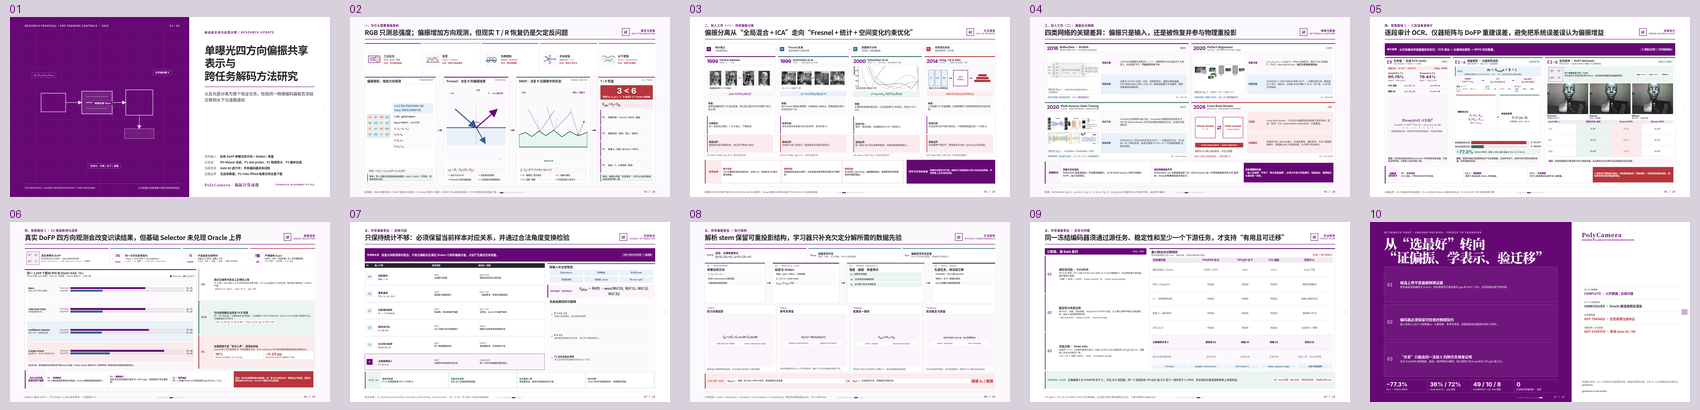
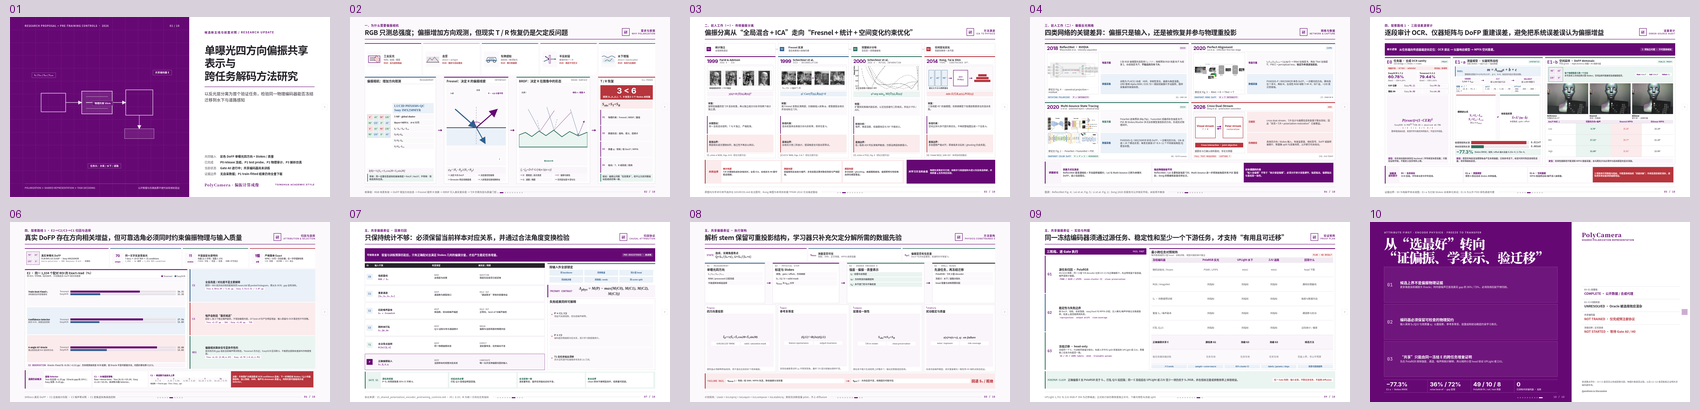
docs: connect angle attribution to physics priors

Changed region(s): [[0.0, 0.6439, 0.1871, 0.878], [0.0, 0.9073, 0.1871, 0.9366], [0.0312, 0.5561, 0.1871, 0.5854]]

diff --git a/demo/tsinghua-ppt/index.html b/demo/tsinghua-ppt/index.html
@@ -614,28 +614,29 @@
   .e2-protocol-stat{display:grid;place-items:center;width:3.35em;aspect-ratio:1;background:var(--paper-soft);color:var(--accent);font:800 clamp(16px,1.08vw,21px)/.95 var(--sans-latin);text-align:center}
   .e2-protocol-stat small{display:block;font-size:.45em;font-family:var(--sans)}
 
-  .e2-main{min-height:0;display:grid;grid-template-columns:59% 1fr;gap:.7vw}
+  .e2-main{min-height:0;display:grid;grid-template-columns:56% 1fr;gap:.7vw}
   .selection-chart{min-height:0;display:grid;grid-template-rows:auto auto minmax(0,1fr) auto;gap:.5vh;padding:.66vh .62vw;border:1px solid var(--line);border-top:4px solid var(--accent);background:#fff}
   .selection-chart-head{display:flex;justify-content:space-between;gap:.7vw;align-items:end}.selection-chart-head h2{font:750 clamp(14px,.92vw,18px)/1.16 var(--sans)}.selection-chart-head p{margin-top:.18vh;color:var(--muted);font:600 clamp(10px,.65vw,12px)/1.18 var(--sans)}
   .selection-legend{display:flex;gap:.7vw;font:700 clamp(9px,.61vw,11px)/1 var(--sans);color:var(--muted)}.selection-legend span::before{content:"";display:inline-block;width:.75em;height:.75em;margin-right:.3em;background:var(--accent)}.selection-legend span.easy::before{background:var(--info)}
-  .selection-rows{display:grid;grid-template-rows:repeat(4,1fr);gap:.38vh;min-height:0}.selection-row{display:grid;grid-template-columns:9.3em 1fr;gap:.55vw;align-items:center;padding:.42vh .44vw;background:var(--paper-soft)}.selection-row.selector{background:var(--info-soft)}.selection-row.oracle{background:var(--danger-soft)}
+  .selection-rows{display:grid;grid-template-rows:repeat(3,1fr);gap:.38vh;min-height:0}.selection-row{display:grid;grid-template-columns:9.3em 1fr;gap:.55vw;align-items:center;padding:.42vh .44vw;background:var(--paper-soft)}.selection-row.selector{background:var(--info-soft)}.selection-row.oracle{background:var(--danger-soft)}
   .selection-name strong{display:block;font:800 clamp(10px,.67vw,13px)/1.1 var(--sans)}.selection-name span{display:block;margin-top:.16vh;color:var(--muted);font:650 clamp(9px,.59vw,11px)/1.12 var(--sans)}
   .selection-pair{display:grid;gap:.3vh}.selection-line{display:grid;grid-template-columns:4.9em 1fr 3.6em;gap:.35vw;align-items:center;font:650 clamp(9px,.6vw,11px)/1 var(--sans);color:var(--muted)}.selection-track{height:1.08vh;min-height:8px;background:#e8e2e9}.selection-fill{display:block;height:100%;background:var(--accent)}.selection-fill.easy{background:var(--info)}.selection-value{text-align:right;color:var(--ink);font:800 clamp(10px,.65vw,12px)/1 var(--mono)}
   .selection-note{display:grid;grid-template-columns:auto 1fr;gap:.5vw;align-items:center;padding:.46vh .45vw;background:var(--accent-pale);font:650 clamp(10px,.65vw,12px)/1.22 var(--sans);color:var(--ink-soft)}.selection-note strong{color:var(--accent);font-family:var(--mono)}
 
-  .e2-reading-stack{min-height:0;display:grid;grid-template-rows:.9fr 1fr 1fr;gap:.46vh}
+  .e2-reading-stack{min-height:0;display:grid;grid-template-rows:1fr 1fr 1fr;gap:.46vh}
   .e2-read-card{display:grid;grid-template-columns:3.5em 1fr;gap:.55vw;align-items:center;padding:.58vh .58vw;border-left:4px solid var(--line-strong);background:#fff}
-  .e2-read-card.paired{border-left-color:var(--success);background:var(--success-soft)}.e2-read-card.selector{border-left-color:var(--danger);background:var(--danger-soft)}
+  .e2-read-card.photometric{border-left-color:var(--info);background:var(--info-soft)}.e2-read-card.noise{border-left-color:var(--danger);background:var(--danger-soft)}.e2-read-card.residual{border-left-color:var(--success);background:var(--success-soft)}
   .e2-read-card .rid{color:var(--accent);font:800 clamp(11px,.72vw,14px)/1 var(--mono)}
   .e2-read-card h3{font:750 clamp(12px,.79vw,15px)/1.14 var(--sans)}
   .e2-read-card p{margin-top:.25vh;color:var(--ink-soft);font:550 clamp(10px,.66vw,12px)/1.26 var(--sans)}
   .e2-read-card .read-metrics{display:flex;flex-wrap:wrap;gap:.28vw;margin-top:.38vh}.e2-read-card .read-metrics span{padding:.28vh .32vw;background:#fff;color:var(--accent);font:800 clamp(9px,.59vw,11px)/1 var(--mono)}
   .selector-realization{display:grid;grid-template-columns:1fr 1fr;gap:.32vw;margin-top:.42vh}.selector-realization div{padding:.4vh .38vw;background:#fff}.selector-realization strong{display:block;color:var(--danger);font:800 clamp(17px,1.15vw,22px)/1 var(--sans-latin)}.selector-realization span{display:block;margin-top:.18vh;color:var(--muted);font:650 clamp(9px,.58vw,11px)/1.12 var(--sans)}
 
-  .e2-control-strip{display:grid;grid-template-columns:auto repeat(3,1fr) 1.3fr;gap:.42vw;align-items:stretch;padding:.58vh .6vw;background:var(--accent-pale);border-left:4px solid var(--accent)}
+  .e2-control-strip{display:grid;grid-template-columns:auto .78fr .9fr 1.32fr 1.35fr;gap:.42vw;align-items:stretch;padding:.58vh .6vw;background:var(--accent-pale);border-left:4px solid var(--accent)}
   .e2-control-strip>strong{display:grid;place-items:center;padding:0 .3vw;color:var(--accent);font:800 clamp(10px,.68vw,13px)/1.15 var(--mono);text-align:center}
   .e2-control{display:grid;align-content:center;padding:.42vh .44vw;background:#fff;color:var(--ink-soft);font:650 clamp(10px,.64vw,12px)/1.22 var(--sans)}.e2-control b{display:block;margin-bottom:.15vh;color:var(--accent)}
   .e2-control-verdict{display:grid;align-content:center;padding:.46vh .5vw;background:var(--danger);color:#fff;font:750 clamp(10px,.65vw,12px)/1.24 var(--sans)}
+  .candidate-ladder{display:grid;grid-template-columns:repeat(5,1fr);gap:.18vw;margin-top:.3vh}.candidate-ladder span{padding:.25vh .18vw;background:var(--paper-soft);text-align:center;color:var(--muted);font:750 clamp(8px,.55vw,10px)/1.08 var(--mono)}.candidate-ladder b{display:block;margin:0;color:var(--accent);font-size:1.05em}
 
   /* 03 · 系统、协议与 Gate */
   .protocol-layout{height:100%;display:grid;grid-template-rows:auto 1fr;gap:1.15vh}
@@ -1159,20 +1160,19 @@
 </section>
 
 <section class="slide soft" data-layout="THU14" data-animate="academic" data-slide-id="route1-hypothesis-chain">
-  <div class="thu-page"><header class="thu-header"><div><div class="thu-section">四、探索路线 1 · E2 角度影响与选择</div><h1 class="thu-title">真实 DoFP 四方向观测会改变识读结果，但基础 Selector 未兑现 Oracle 上界</h1></div><div class="thu-brand"><div class="thu-brand-mark">研</div><div class="thu-brand-copy"><strong>角度选择</strong><span>ANGLE SELECTION</span></div></div></header>
+  <div class="thu-page"><header class="thu-header"><div><div class="thu-section">四、探索路线 1 · E2→C2/C3→C1 归因与选择</div><h1 class="thu-title">真实 DoFP 存在方向相关增益，但可靠选角必须同时约束偏振物理与输入质量</h1></div><div class="thu-brand"><div class="thu-brand-mark">研</div><div class="thu-brand-copy"><strong>归因与选择</strong><span>ATTRIBUTION & SELECTION</span></div></div></header>
   <main class="thu-content tight"><div class="e2-selection-layout quant-layout">
     <div class="e2-protocol-grid" data-anim><article class="e2-protocol-card"><div class="e2-sensor" aria-label="DoFP四方向微偏振单元示意，绝对排列以相机SDK为准"><span>90°</span><span>45°</span><span>135°</span><span>0°</span></div><div><h2>真实单曝光 DoFP</h2><p>FLIR BFS-U3-51S5P · Sony IMX250MZR</p><em>micro-polarizer → SDK demosaic 8-bit · 非模拟</em></div></article><article class="e2-protocol-card"><div class="e2-protocol-stat">70<small>unique</small></div><div><h2>同一文字反复受高光</h2><p>7 docs × 10 GT ROI × 15 conditions</p><em>1,050 − 16 越界 = 1,034 ROI-condition</em></div></article><article class="e2-protocol-card"><div class="e2-protocol-stat">11<small>median</small></div><div><h2>不是固定长度喷码</h2><p>均值 22.3 字符；范围 1–376</p><em>FUNSD 字段 / 短语 / 段落 · 印刷+手写混合</em></div></article><article class="e2-protocol-card"><div class="e2-protocol-stat">1错<small>全错</small></div><div><h2>严格整串 Exact</h2><p>NFKC + 大写 + 空白折叠；任一字符错即失败</p><em>CER 同报 · 无字典 / OCV 修正</em></div></article></div>
     <div class="e2-main" data-anim>
-      <article class="selection-chart"><div class="selection-chart-head"><div><h2>同一 1,034 个配对 ROI 的 Exact-read（%）</h2><p>Fixed 仅由 train 选择；Selector 可部署；Oracle 使用 GT，只是上界</p></div><div class="selection-legend"><span>Tesseract</span><span class="easy">EasyOCR</span></div></div><div class="rule"></div><div class="selection-rows">
-        <div class="selection-row"><div class="selection-name"><strong>Raw I₀</strong><span>真实 DoFP 单方向基线</span></div><div class="selection-pair"><div class="selection-line"><span>Tesseract</span><span class="selection-track"><i class="selection-fill" style="width:65.78%"></i></span><span class="selection-value">26.31</span></div><div class="selection-line"><span>EasyOCR</span><span class="selection-track"><i class="selection-fill easy" style="width:28.30%"></i></span><span class="selection-value">11.32</span></div></div></div>
-        <div class="selection-row"><div class="selection-name"><strong>Train-best Fixed</strong><span>训练集最终仍选 I₀</span></div><div class="selection-pair"><div class="selection-line"><span>Tesseract</span><span class="selection-track"><i class="selection-fill" style="width:65.78%"></i></span><span class="selection-value">26.31</span></div><div class="selection-line"><span>EasyOCR</span><span class="selection-track"><i class="selection-fill easy" style="width:28.30%"></i></span><span class="selection-value">11.32</span></div></div></div>
-        <div class="selection-row selector"><div class="selection-name"><strong>Confidence Selector</strong><span>四次 OCR，按置信度选</span></div><div class="selection-pair"><div class="selection-line"><span>Tesseract</span><span class="selection-track"><i class="selection-fill" style="width:68.90%"></i></span><span class="selection-value">27.56</span></div><div class="selection-line"><span>EasyOCR</span><span class="selection-track"><i class="selection-fill easy" style="width:27.58%"></i></span><span class="selection-value">11.03</span></div></div></div>
-        <div class="selection-row oracle"><div class="selection-name"><strong>4-angle Oracle</strong><span>事后看 GT，逐 ROI 选对的方向</span></div><div class="selection-pair"><div class="selection-line"><span>Tesseract</span><span class="selection-track"><i class="selection-fill" style="width:82.20%"></i></span><span class="selection-value">32.88</span></div><div class="selection-line"><span>EasyOCR</span><span class="selection-track"><i class="selection-fill easy" style="width:34.58%"></i></span><span class="selection-value">13.83</span></div></div></div>
-      </div><div class="selection-note"><strong>READING</strong><span>绝对值受长字符串与严格 Exact 压低；Fixed–Oracle 是同 ROI / 同字符串 / 同高光条件的配对相对变化。</span></div></article>
-      <aside class="e2-reading-stack"><article class="e2-read-card"><span class="rid">ABS</span><div><h3>绝对正确率不能当工业喷码上限</h3><p>70 个唯一 ROI 包含 1–376 字符的混合表单字段；GT crop 还绕过了文字检测。绝对值只描述这一 SHDocs 代理。</p><div class="read-metrics"><span>median 11 chars</span><span>mean 22.3</span><span>max 376</span></div></div></article><article class="e2-read-card paired"><span class="rid">PAIR</span><div><h3>方向观测确实会改变 OCR 结果</h3><p>同一 ROI 的内容、长度和高光条件固定，只切换四个 DoFP 方向分支；Oracle–Fixed 在两个后端均为正，文档聚类区间不跨 0。</p><div class="read-metrics"><span>Tess +6.58 pp [4.13,8.86]</span><span>Easy +2.51 pp [1.50,3.52]</span></div></div></article><article class="e2-read-card selector"><span class="rid">SEL</span><div><h3>关键困难不是“有无上界”，而是如何选</h3><p>Oracle 每个 ROI 都使用 GT 才知道最优方向；OCR confidence 并不是可靠的图像质量或正确性估计。</p><div class="selector-realization"><div><strong>19%</strong><span>Tesseract 仅兑现 1.25 / 6.58 pp</span></div><div><strong>−0.29 pp</strong><span>EasyOCR Selector 反而低于 Fixed</span></div></div></div></article></aside>
+      <article class="selection-chart"><div class="selection-chart-head"><div><h2>E2 · 同一 1,034 个配对 ROI 的 Exact-read（%）</h2><p>同 ROI / 字符串 / 高光条件，只切换真实 DoFP 四方向观测</p></div><div class="selection-legend"><span>Tesseract</span><span class="easy">EasyOCR</span></div></div><div class="rule"></div><div class="selection-rows">
+        <div class="selection-row"><div class="selection-name"><strong>Train-best Fixed I₀</strong><span>训练集选定的部署基线</span></div><div class="selection-pair"><div class="selection-line"><span>Tesseract</span><span class="selection-track"><i class="selection-fill" style="width:65.78%"></i></span><span class="selection-value">26.31</span></div><div class="selection-line"><span>EasyOCR</span><span class="selection-track"><i class="selection-fill easy" style="width:28.30%"></i></span><span class="selection-value">11.32</span></div></div></div>
+        <div class="selection-row selector"><div class="selection-name"><strong>Confidence Selector</strong><span>四次 OCR，按置信度选择</span></div><div class="selection-pair"><div class="selection-line"><span>Tesseract</span><span class="selection-track"><i class="selection-fill" style="width:68.90%"></i></span><span class="selection-value">27.56</span></div><div class="selection-line"><span>EasyOCR</span><span class="selection-track"><i class="selection-fill easy" style="width:27.58%"></i></span><span class="selection-value">11.03</span></div></div></div>
+        <div class="selection-row oracle"><div class="selection-name"><strong>4-angle GT Oracle</strong><span>看过答案后逐 ROI 选对的方向</span></div><div class="selection-pair"><div class="selection-line"><span>Tesseract</span><span class="selection-track"><i class="selection-fill" style="width:82.20%"></i></span><span class="selection-value">32.88</span></div><div class="selection-line"><span>EasyOCR</span><span class="selection-track"><i class="selection-fill easy" style="width:34.58%"></i></span><span class="selection-value">13.83</span></div></div></div>
+      </div><div class="selection-note"><strong>E2 OBSERVATION</strong><span>Oracle–Fixed 为 +6.58 / +2.51 pp：方向观测会改变 OCR 结果；但 Oracle 不是可部署方法，归因仍需右侧 C2/C3。</span></div></article>
+      <aside class="e2-reading-stack"><article class="e2-read-card photometric"><span class="rid">C2</span><div><h3>全局亮度 / 对比度不是主要解释</h3><p>把同一 ROI 四方向分别匹配到共同 mean/std 或 pooled histogram，再从头 OCR；gap 没有消失。</p><div class="read-metrics"><span>Tess 6.58→6.09 / 5.61 pp</span><span>Easy 2.51→2.51 / 3.87 pp</span></div></div></article><article class="e2-read-card noise"><span class="rid">C3</span><div><h3>噪声会制造“最优候选”</h3><p>固定 I₀ 加 3 个独立噪声副本，不增加偏振内容，GT best-of 仍产生明显增益：输入质量与 OCR 稳定性不可忽略。</p><div class="read-metrics"><span>Tess +2.37 pp · 36%</span><span>Easy +1.81 pp · 72%</span></div></div></article><article class="e2-read-card residual"><span class="rid">RES</span><div><h3>偏振相关剩余信号是条件性的</h3><p>真实四方向 gap 减去当前噪声零对照后，Tesseract 仍为正；EasyOCR 区间跨 0。不能把全部剩余直接叫作物理增益。</p><div class="read-metrics"><span>Tess +4.21 [2.05,6.19]</span><span>Easy +0.70 [−0.41,1.95]</span></div></div></article></aside>
     </div>
-    <div class="e2-control-strip" data-anim><strong>为什么仍不能<br>直接归因于偏振</strong><div class="e2-control"><b>C1 · 候选数量</b>36 个虚拟角固定策略仍无增益，Oracle 却随候选数机械增大。</div><div class="e2-control"><b>C2 · 图像统计</b>亮度/对比度匹配后仍保留 85–100% gap，整体强度不是主要解释。</div><div class="e2-control"><b>C3 · 噪声抽签</b>同一 I₀ 的噪声 best-of 已复现真实 gap 的 36% / 72%。</div><div class="e2-control-verdict">结论：四方向观测影响识读结果，但“逐 ROI 最优方向”需要真正可部署、经零对照验证的 Selector；Oracle 不能作为方法结果。</div></div>
-  </div></main><footer class="thu-footer"><span>SHDocs 真实 DoFP · 70 strings / 1,034 条件样本 · 长度审计 v1</span><span class="thu-footer-line"></span><span class="thu-page-no">06 / 10</span></footer></div>
+    <div class="e2-control-strip" data-anim><strong>选择仍未解决</strong><div class="e2-control"><b>基础 Selector</b>Tess 仅兑现 +1.25 pp（Oracle gap 的 19%）；Easy 反而 −0.29 pp。</div><div class="e2-control"><b>C1 · 36角固定策略</b>Raw→dense best：Tess 26.31→25.34；Easy 11.32→10.93。未训练36路 Selector。</div><div class="e2-control"><b>C1 · 候选数只会放大上界</b><div class="candidate-ladder"><span><b>1</b>0 / 0</span><span><b>2</b>2.22 / 1.06</span><span><b>4</b>6.58 / 2.42</span><span><b>9</b>11.12 / 4.74</span><span><b>36</b>14.41 / 5.71</span></div><small>候选数 → Oracle gap（Tess / Easy，pp）</small></div><div class="e2-control-verdict">决策：不再靠扩大候选集或 OCR confidence 选角；下一步用校准 Stokes / Q,U 的偏振结构，加上饱和、SNR、噪声与 demosaic 质量 q，共同约束可部署表示或 Selector。</div></div>
+  </div></main><footer class="thu-footer"><span>SHDocs 真实 DoFP · C2 全局统计匹配 · C3 噪声零对照 · C1 密集虚拟角候选控制</span><span class="thu-footer-line"></span><span class="thu-page-no">06 / 10</span></footer></div>
 </section>
 
 <section class="slide" data-layout="THU12" data-animate="academic" data-slide-id="polarization-attribution">
@@ -1227,7 +1227,7 @@ const SPEAKER_NOTES = [
   {id:'classical-reflection-separation',title:'传统偏振反光分离演进',section:'问题与文献',minutes:1.7,purpose:'说明传统路线如何从全局 ICA 逐步加入 Fresnel、统计分布和空间变化约束',talk:['Farid 与 Adelson 将正交检偏图写成同一 T/R 的不同线性混合，并以 ICA 假设统计独立源','Schechner 1999 用 Fresnel 把混合权重绑定到玻璃入射角，通过重建层去相关估计角度','JOSA A 2000 以互信息处理双表面内部反射，并分析噪声、角度误差和入射平面歧义','Kong 2014 把入射角和入射平面扩展为空间变化系数场，再做多尺度约束优化','共同边界是先验失配；学习器应补充局部结构和语义先验，而不是丢掉物理重组和质量门控'],transition:'传统方法明确了可辨识条件，下一页比较深度网络恢复到哪一层物理量',cue:'按顶部约束轴从左到右讲四篇工作，最后落到统计、测量和模型失配'},
   {id:'polarized-reflection-networks',title:'偏振反光网络与采集方案',section:'问题与文献',minutes:1.7,purpose:'同口径比较偏振输入、强度/偏振恢复层级与采集方案',talk:['ReflectNet 用旋转偏振片顺序采集三角度，最终恢复 RGB 强度 T/R，不恢复逐角偏振层','Lei 2020 使用单色 DoFP 单曝光四方向，先估计强度 R 再估计强度 T，并以黑布 M−R 方案采集真值','Multi-bounce 使用彩色 DoFP，逐角预测 polarized T/R，再以 Stokes/Mueller 多次反射模型重投影四方向','Deng 2026 只确认 cross dual-stream、T/R 与 polarization restoration 方向；输入、监督、相机和数据仍待全文核查','输入含偏振不等于输出保留物理；后续方法必须报告采集硬件、输出层级和重投影一致性'],transition:'文献说明“偏振网络”不能只看输入标签，下面回顾路线 1 的可测前提'},
   {id:'route1-foundation',title:'探索路线 1 · 三段误差源审计',section:'探索路线 1',minutes:1.3,purpose:'从任务读出、仪器响应和 DoFP 空间重建三段逆向定位偏振系统中的独立误差源',talk:['这不是把三项百分比相加的统一误差预算；E0、E1-a、E1-b 使用不同数据与指标，作用是逐段锁定混杂因素','E0 是电脑字体、GT ROI 与字符白名单下的软件 sanity：EasyOCR 的 CER 只有 4.20%，但字符串长度和易混字符会把整串 Exact 放大到 60.78%，它不是实拍喷码上限','E1-a 把测量写成 m=Areal·s+b+ε；用已知合成 Stokes 的前 2,500 组估计 A,b，再在留出的 2,500 组反演，RMSE 从理想矩阵的 0.01147 降到 0.00260','E1-b 模拟 2×2 MPFA 每像素只测一个方向，再比较完整四方向、最近邻和双线性；伪彩图中色相是 AoLP、饱和度是 DoLP、亮度是 S0','双线性减轻但没有消除空间插值误差，所以 OCR backend、标定矩阵和 demosaic 都必须冻结或进入后续消融，不能被模型增益吸收'],transition:'三段测量链误差被显式化后，下一页继续检验 E2 的 Oracle gap 是否只是候选数量、图像统计和噪声选择效应',cue:'按左到右讲三段误差源；E1-b 先指 2×2 排列，再读伪彩图图例和 40 场景均值表'},
-  {id:'route1-hypothesis-chain',title:'E2 · 真实 DoFP 角度影响与选择',section:'探索路线 1',minutes:1.3,purpose:'先交代 SHDocs 的真实 DoFP 来源、字符串长度与严格 Exact 规则，再区分角度相关的配对变化、Oracle 上界和可部署 Selector',talk:['E2 的 I0/I45/I90/I135 来自 FLIR Blackfly S 的 Sony IMX250MZR DoFP 单曝光；公开文件是作者/SDK 去马赛克后的 8-bit 方向 PNG，不是旋转偏振片顺序拍摄，也不是纯模拟','测试只有 70 个唯一 FUNSD 文字 ROI，在 15 种高光条件下展开并排除 16 个越界样本后得到 1,034 条；字符串中位数 11、均值 22.3、范围 1–376，包含字段、短语和长段落','Exact 在 NFKC、大写和空白折叠后仍要求整串完全正确，任一字符错就整段失败，因此绝对正确率不能解释为工业日期码上限','同一 ROI 的内容、长度和高光条件固定，只切换四方向观测；Oracle–Fixed 在 Tesseract / EasyOCR 上分别为 +6.58 / +2.51 pp 且文档聚类区间不跨 0，说明方向分支会改变 OCR 结果','但 Oracle 使用 GT 才能逐 ROI 选方向；confidence selector 对 Tesseract 只兑现 1.25 pp、约占 gap 的 19%，EasyOCR 还下降 0.29 pp。C1–C3 又说明候选数与噪声抽签会制造上界，所以 Selector 必须可部署并经过零对照验证'],transition:'观察到方向相关变化但现有 Selector 失败后，下一页改用只破坏一个因素的匹配干预，定义什么结果才允许归因于真实偏振信息',cue:'先讲顶部四个协议卡，再读 Fixed–Oracle 配对变化，最后指向右下角 19% 与 −0.29 pp'},
+  {id:'route1-hypothesis-chain',title:'E2–C3–C1 · 方向归因与选择',section:'探索路线 1',minutes:1.3,purpose:'把真实 DoFP 方向差异、亮度统计、噪声选择下限和密集候选控制串成一条归因—选择—决策链',talk:['E2 的真实 DoFP 配对结果先建立观察：同一 ROI、字符串和高光条件下，Oracle–Fixed 在 Tesseract / EasyOCR 上为 +6.58 / +2.51 pp，说明四方向观测会改变 OCR 输出；绝对正确率仍受 1–376 字符和严格 Exact 压低','C2 把每个 ROI 的四方向匹配到共同 mean/std 或 pooled histogram 后重新 OCR；Tesseract gap 仍为 6.09 / 5.61 pp，Easy 为 2.51 / 3.87 pp，因此全局亮度和对比度不是主要解释，但局部高光结构仍被保留','C3 固定 I0，只加入三个独立噪声副本；GT best-of 已产生 +2.37 / +1.81 pp，相当于真实 gap 的 36% / 72%。这说明噪声与 OCR 稳定性会制造“最优候选”，输入质量必须进入方法主体','用真实 gap 对比当前噪声零对照后，Tesseract 仍剩 +4.21 pp 且区间不跨 0，Easy 只剩 +0.70 pp 且区间跨 0；因此偏振相关剩余信号是条件性、后端相关的，不能把全部剩余直接叫作物理增益','基础 confidence selector 对 Tesseract 只兑现 Oracle gap 的 19%，Easy 还下降；C1 的36角固定策略不优于 raw，而候选数只把 Oracle gap 放大到 14.41 / 5.71 pp。C1 没有训练36路 selector，结论是单纯扩大搜索空间无解，下一步应用校准 Stokes/Q,U 与饱和、SNR、噪声、demosaic 质量 q 共同约束可部署表示或 Selector'],transition:'方向差异、输入质量和候选选择已经分开后，下一页进一步用匹配输入干预定义什么结果才允许归因于当前样本的真实偏振信息',cue:'按左侧 E2 → 右侧 C2/C3/剩余信号 → 底部 Selector/C1 → 红色决策条的顺序讲'},
   {id:'polarization-attribution',title:'真实偏振的因果归因协议',section:'共享偏振表征',minutes:1.2,purpose:'用匹配输入干预区分当前样本偏振信息与通道数、噪声、统计偏差和角度坐标系',talk:['C0 到 C3 不是随意喂错误图片，而是依次保持强度、通道数、噪声或 Q/U 边际分布，只破坏一个待验证因素','最关键的是跨样本打乱 Q/U：总体数值统计仍在，但与当前场景的物理对应关系被破坏','T1 是合法零点旋转，不应导致任务输出变化；它与非物理通道交换必须区分','所有输入使用同 backbone、参数、head、训练步数、增强、seeds 和 scene split','只有正确偏振优于全部对照、打乱后回落且合法旋转通过，才允许把增量归因于偏振'],transition:'归因协议说明要比较什么，下一页说明编码器内部必须保留什么物理结构',cue:'先讲 C3，再回看 C0–C2，最后读底部 Gate G1'},
   {id:'physics-constrained-encoder',title:'物理约束共享编码器',section:'共享偏振表征',minutes:1.2,purpose:'定义解析 stem、双质量变量、共享表示和四类可验证约束',talk:['主输入使用 S0、Q、U，避免直接输入低 DoLP 区不稳定的裸 AoLP','q_meas 表示测量是否可信，q_pol 表示偏振是否有信息量；高 DoLP 但饱和与低 DoLP 但强度可信必须区分','编码器分出强度表示 zI、方向等变偏振表示 zP 和质量门控 zq，再连接小型任务头','重投影约束防止网络丢掉四方向物理，参考系等变约束角度几何，层重组约束源任务解释观测','扰动稳定先用冻结噪声模型；真实重复曝光只能在 H0 相机试采后验证，当前不冒充已有结果'],transition:'有了方法结构后，下一页给出怎样训练、怎样冻结、什么结果才算有用'},
   {id:'encoder-proof-plan',title:'共享编码器实验与通过判据',section:'共享偏振表征',minutes:1.2,purpose:'用 G1 源任务归因、G2 稳定性和 G3 冻结迁移证明编码器有用',talk:['G1 在 PolaRGB 49/10/8 场景划分上，用同一小型 decoder 比较全部输入对照，并报告场景聚类区间与 clean preservation','G2 按 DoLP、饱和、反射强度、easy/hard 和 MPFA 分组，检验重投影、输出漂移和风险覆盖关系','G3 冻结同一个编码器，只训练相同容量分割头，并比较 10%、25%、100% 标签量','共享的核心证据是 UPLight 或 ZJU 至少一个任务优于 S0/RGB；偏振的核心证据是打乱 Q/U 后回落','UPLight 与 ZJU 仍需先核查独立许可和冻结 split；任一 Gate 失败就缩小主张，不转向联合多任务或 diffusion'],transition:'最后用已完成、未完成和唯一下一项证据收束',cue:'从左侧 G1→G3 讲执行顺序，再读右侧矩阵和底部 minimum claim'},

diff --git a/demo/tsinghua-ppt/images/SOURCES.md b/demo/tsinghua-ppt/images/SOURCES.md
@@ -51,7 +51,7 @@ BRDF 图均为 HTML/CSS/无文字 SVG 的本项目原创机制示意，不是相
 | 3 | Farid–Schechner–Kong 的传统偏振 T/R 分离演进、共同边界及对学习先验的启发 | 上述三张论文图节选；Farid & Adelson, JOSA A 1999；Schechner et al., ICCV 1999 / JOSA A 2000；Kong et al., TPAMI 2014；方法口径同步见 `polar_representation/LITERATURE.md` |
 | 4 | ReflectNet、Lei 2020、Multi-bounce 与 Deng 2026 的偏振/强度恢复层级及采集方案 | 上述三张论文架构图；对应 ECCV 2018、CVPR 2020、ECCV 2020 原文；Deng et al. 2026 仅使用出版元数据与已核实方向，具体输入、监督和采集字段按“待全文核查”处理；完整审计见 `polar_representation/LITERATURE.md` |
 | 5 | 从任务读出、仪器响应到 DoFP 重建的三段误差源审计：E0 合成 OCR sanity、E1-a 已知 Stokes 仪器矩阵自检、E1-b PDD MPFA/AoLP 误差 | `e0_clean_code_sanity.json`、`e1_synthetic_instrument_recovery.json`、`e1_pdd_simple_baselines.json`；三段使用不同数据与指标，页面明确禁止直接相加为统一“误差份额” |
-| 6 | SHDocs 真实 DoFP 来源、70 个唯一文字 ROI × 15 高光条件、字符串长度与严格 Exact 判据；Raw I₀ / Fixed / Confidence Selector / Oracle 的配对比较，以及 C1–C3 选择效应对照 | 相机为 FLIR BFS-U3-51S5P / Sony IMX250MZR DoFP；公开方向图为作者/SDK 去马赛克后的 8-bit PNG；数字来自 `e0_e2_shdocs_easyocr_scale4.json`、`e0_e2_shdocs_tesseract_scale4.json`、`offline_extension_controls.json` 和新增 `shdocs_e2_string_length_audit_v1.json`；E2 四方向为真实采集，36 虚拟角与 noise best-of 为软件对照 |
+| 6 | E2 真实四方向配对增量 → C2 全局亮度/对比度匹配 → C3 噪声选择下限与后端相关剩余信号 → 基础 Selector 和 C1 密集候选控制；由此导向“偏振物理 + 输入质量”联合先验 | 相机为 FLIR BFS-U3-51S5P / Sony IMX250MZR DoFP；公开方向图为作者/SDK 去马赛克后的 8-bit PNG；数字来自 `e0_e2_shdocs_easyocr_scale4.json`、`e0_e2_shdocs_tesseract_scale4.json`、`offline_extension_controls.json` 与 `shdocs_e2_string_length_audit_v1.json`；C1 未训练36路 Selector，只比较固定策略、候选数量与 GT Oracle 上界 |
 | 7 | C0–C3 匹配输入干预、合法角度零点旋转与偏振归因 Gate G1 | `15_shared_polarization_encoder_pretraining_controls.md` A5、§10.5；该页为预注册协议，没有训练结果 |
 | 8 | `S₀/Q/U` 解析 stem、`q_meas/q_pol`、共享编码器与重投影/等变/重组/稳定约束 | `15_shared_polarization_encoder_pretraining_controls.md` §10.2–10.3；`05_polarization_camera_physical_models.md` |
 | 9 | PolaRGB 源任务、扰动稳定和 UPLight/ZJU 冻结迁移三阶段实验矩阵 | `polargb_scene_split_v1.json`；`15_shared_polarization_encoder_pretraining_controls.md` §6、§10.4–10.5；UPLight/ZJU 许可与 split 仍待执行前核查 |
